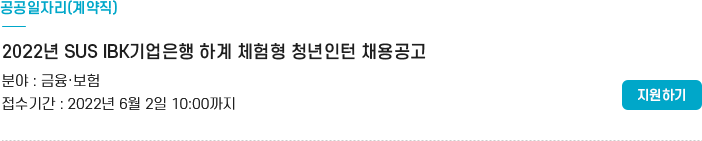
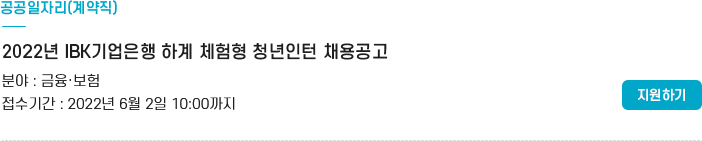
멘토활동증명서 팝업

Changed region(s): [[0.0897, 0.2837, 0.6282, 0.4255]]

diff --git a/html/멘토활동증명서_팝업.html b/html/멘토활동증명서_팝업.html
@@ -1,0 +1,129 @@
+<!DOCTYPE html>
+<html lang="en">
+
+<head>
+    <meta charset="UTF-8">
+    <meta name="viewport" content="width=device-width,initial-scale=1">
+    <title>Document</title>
+    <!-- 잡아바 css-->
+    <link type="text/css" rel="stylesheet" href="https://www.jobaba.net/resource/css/main/layout.css">
+    <link type="text/css" rel="stylesheet" href="https://www.jobaba.net/resource/css/main/style.css">
+    <link type="text/css" rel="stylesheet" href="https://www.jobaba.net/resource/css/main/kgoon.reset.min.css">
+    <link type="text/css" rel="stylesheet" href="https://www.jobaba.net/resource/css/main/mobile.css">
+    <link type="text/css" rel="stylesheet" href="https://www.jobaba.net/resource/css/new/common.css">
+    <link type="text/css" rel="stylesheet" href="https://www.jobaba.net/resource/css/new/mobile.css">
+    <link type="text/css" rel="stylesheet" href="https://www.jobaba.net/resource/css/new/layout.css">
+    <link type="text/css" rel="stylesheet" href="https://www.jobaba.net/resource/js/css/jquery-ui.css">
+    <link type="text/css" rel="stylesheet" href="https://www.jobaba.net/resource/css/font-awesome.min.css">
+    
+    <link type="text/css" rel="stylesheet" href="https://www.jobaba.net/resource/css/new/style.css">
+    <link rel="stylesheet" href="https://www.jobaba.net/resource/bxslider/slick.css">
+    <!-- //잡아바 css-->
+
+    <!--추가 css-->
+    <link rel="stylesheet" href="pop.css">
+
+
+
+</head>
+
+<body>
+    <div class="contents-wrap">
+        <div class="containerNew2 clearfix">
+           
+           
+            <!-- // 멘토 활동 증명 팝업-->
+           <div id="certificatePopup" class="modal fade in lg" role="dialog" aria-labelledby="certificateModalLabel" data-sprtseq="487" style="display: block; padding-right: 0px;">
+		<div class="modal-dialog" role="document">
+			<div class="modal-content">
+				<div class="modal-header">
+					<button type="button" class="close btn_close" data-dismiss="modal" aria-label="Close"><span aria-hidden="true">×</span></button>
+					<h4 class="modal-title">멘토 활동 증명서</h4>
+				</div>
+				<div class="modal-body popLayer" style="max-height: 757px;">
+					<div id="printDiv" class="certificate">
+
+
+
+
+
+
+
+
+
+
+
+
+
+
+
+<p class="top-logo">
+	<img src="https://www.jobaba.net/resource/images/logoT.png" alt="경기도일자리재단">
+</p>
+<h4 class="title_h4">멘토 활동 증명서</h4>
+
+<div class="box3">
+	<ul class="list2">
+		<li>
+			<dl>
+				<dt style="width: 58px;">성명</dt>
+				<dd>이정은</dd>
+			</dl>
+		</li>
+		<li>
+			<dl>
+				<dt style="width: 58px;">주소</dt>
+				<dd>경기 부천시 계남로295번길 19-8 (춘의동)</dd>
+			</dl>
+		</li>
+		<li>
+			<dl>
+				<dt style="width: 58px;">연락처</dt>
+				<dd>010-6252-9280</dd>
+			</dl>
+		</li>
+	</ul>
+</div>
+
+
+<div class="certificate-bottom">
+	<p class="tc">경기도일자리재단의 『일자라 플랫폼 잡아바』에서 진행하는<br>
+취업멘토링 서비스에서 위의 기간 동안 멘토 활동을 하였음을 증명합니다.</p>
+	<p class="date">2022년 05월 31일</p>
+	<p class="sign">
+		<span>
+			경기도일자리재단
+			<img src="https://www.jobaba.net/resource/images/img_sign.png" alt="경기도일자리재단 직인">
+		</span>
+	</p>
+</div></div>
+				</div>
+				<div class="modal-footer">
+					<a href="/resource/view/forPrint.jsp" class="btn btn_blue" onclick="window.open(this.href, 'printPage', 'width=950,height=680,scrollbars,toolbar,status');return false;">인쇄하기</a>
+					
+					<a href="javascript:void(0)" class="btn btn_grey"  onclick="resumePdfSave();">이전으로</a>
+					 
+				</div>
+			</div>
+		</div>
+	</div>
+            <!-- // 멘토 활동 증명 팝업-->
+
+           <!--팝업 shadow-->
+           <div class="page_msk" style="display: block;top:0;height: 100vh"></div>
+           <!--팝업 shadow-->
+           
+           
+        </div>
+    </div>
+
+    <!--잡아바 js-->
+    <script type="text/javascript" charset="utf-8" src="https://www.jobaba.net/resource/js/jquery-1.11.3.js"></script>
+
+    <!--추가 js-->
+    <script src="https://cdnjs.cloudflare.com/ajax/libs/jquery.scrollbar/0.2.11/jquery.scrollbar.js"></script>
+
+    <script>
+
+    </script>
+</body></html>

diff --git a/html/wz/wz218.html b/html/wz/wz218.html
@@ -203,7 +203,7 @@ https://aldo814.github.io/jababa/html/wz/images/wz19_05.png" alt="2022년 경력
                                 <td style="height: 20px"></td>
                             </tr>
                             <tr>
-                                <td style="padding:20px 40px;">
+                                <td style="padding:0 40px;">
                                     <a href="https://www.jobaba.net/thema/themeInfo.do" target="_blank">
                                         <img src="https://aldo814.github.io/jababa/html/wz/images/wz19_08.png" alt="복지 밸런스 게임하고 나에게 딱! 맞는 기업 찾아보자! 잡아바 복지밸런스게임" style="max-width: 100%">
                                     </a>
@@ -233,11 +233,11 @@ https://aldo814.github.io/jababa/html/wz/images/wz19_05.png" alt="2022년 경력
 
             <tr>
                 <td style="vertical-align:top;">
-                    <a href="https://www.jobaba.net/pblcEmpmn/publicJobDtl.do?seq=5420&seStl=PJ" style="outline: 0;border: 0 none;margin: 0;padding:10px 39px 0 39px ;display: block" target="_blank"> <img alt="2022년 sus IBK기업은행 하계 체험형 청년인턴 채용공고
+                    <a href="https://www.jobaba.net/pblcEmpmn/publicJobDtl.do?seq=5420&seStl=PJ" style="outline: 0;border: 0 none;margin: 0;padding:10px 39px 0 39px ;display: block" target="_blank"> <img alt="2022년  IBK기업은행 하계 체험형 청년인턴 채용공고
 ○ 공공일자리(계약직)
 ○ 분야 : 영양사
 ○ 접수기간 : 2022년 6월 2일 10:00까지" src="
-https://aldo814.github.io/jababa/html/wz/images/wz19_09.png" style="margin:0;padding:0;vertical-align:top;border:0;max-width: 100%" /> </a>
+https://www.jobaba.net/resource/images/web/2022/05/30/1653870842168_7292982479.png" style="margin:0;padding:0;vertical-align:top;border:0;max-width: 100%" /> </a>
                 </td>
             </tr>
             <tr>
@@ -245,7 +245,7 @@ https://aldo814.github.io/jababa/html/wz/images/wz19_09.png" style="margin:0;pad
                     <a href="https://www.jobaba.net/pblcEmpmn/publicJobDtl.do?seq=7038&seStl=PJ" style="outline: 0;border: 0 none;margin: 0;padding: 20px 39px 0 39px;display: block" target="_blank"> <img alt="[무등산] 2022년 기간제근로자(환경미화) 공개채용공고
 ○ 공공일자리(계약직)
 ○ 분야 : 영양사
-○ 접수기간 : 2022년 6월 2일 10:00까지" src="https://aldo814.github.io/jababa/html/wz/images/wz19_10.png" style="margin:0;padding:0;vertical-align:top;border:0;max-width: 100%" /> </a>
+○ 접수기간 : 2022년 6월 2일 10:00까지" src="/resource/images/web/2022/05/30/1653874255616_3493763599.png" style="margin:0;padding:0;vertical-align:top;border:0;max-width: 100%" /> </a>
                 </td>
             </tr>
 

diff --git a/index.html b/index.html
@@ -198,9 +198,16 @@
 		<td><a href="html/event/03.html"
 		 class="preview" target="_blank">취업성공수기 이벤트</a></td>
 	</tr>
+	<tr>
+		<td></td>
+		<td>팝업</td>
+		<td><a href="html/멘토활동증명서_팝업.html"
+		 class="preview" target="_blank">멘토활동증명서 팝업</a></td>
+	</tr>
 	</tbody>
 	</table>
 </div>
+.page_msk
 	
 <script src="https://cdnjs.cloudflare.com/ajax/libs/jquery/2.2.2/jquery.min.js" ></script>
 <script>

diff --git a/html/pop.css b/html/pop.css
@@ -1,0 +1,5 @@
+.modal .box3{background: #f1f1f1;border-radius: 10px;padding: 15px 20px;margin-bottom: 20px;font-size: 15px;color: #666;}
+.modal .box3 dl {display: table;table-layout: fixed;width: 100%;}
+.modal .box3 dt, .modal .box2 dd {display: table-cell;}
+.modal .box3 dt {padding-right: 10px;color: #333;font-weight: 600;}
+.modal .box3 dd {color: #666;}
